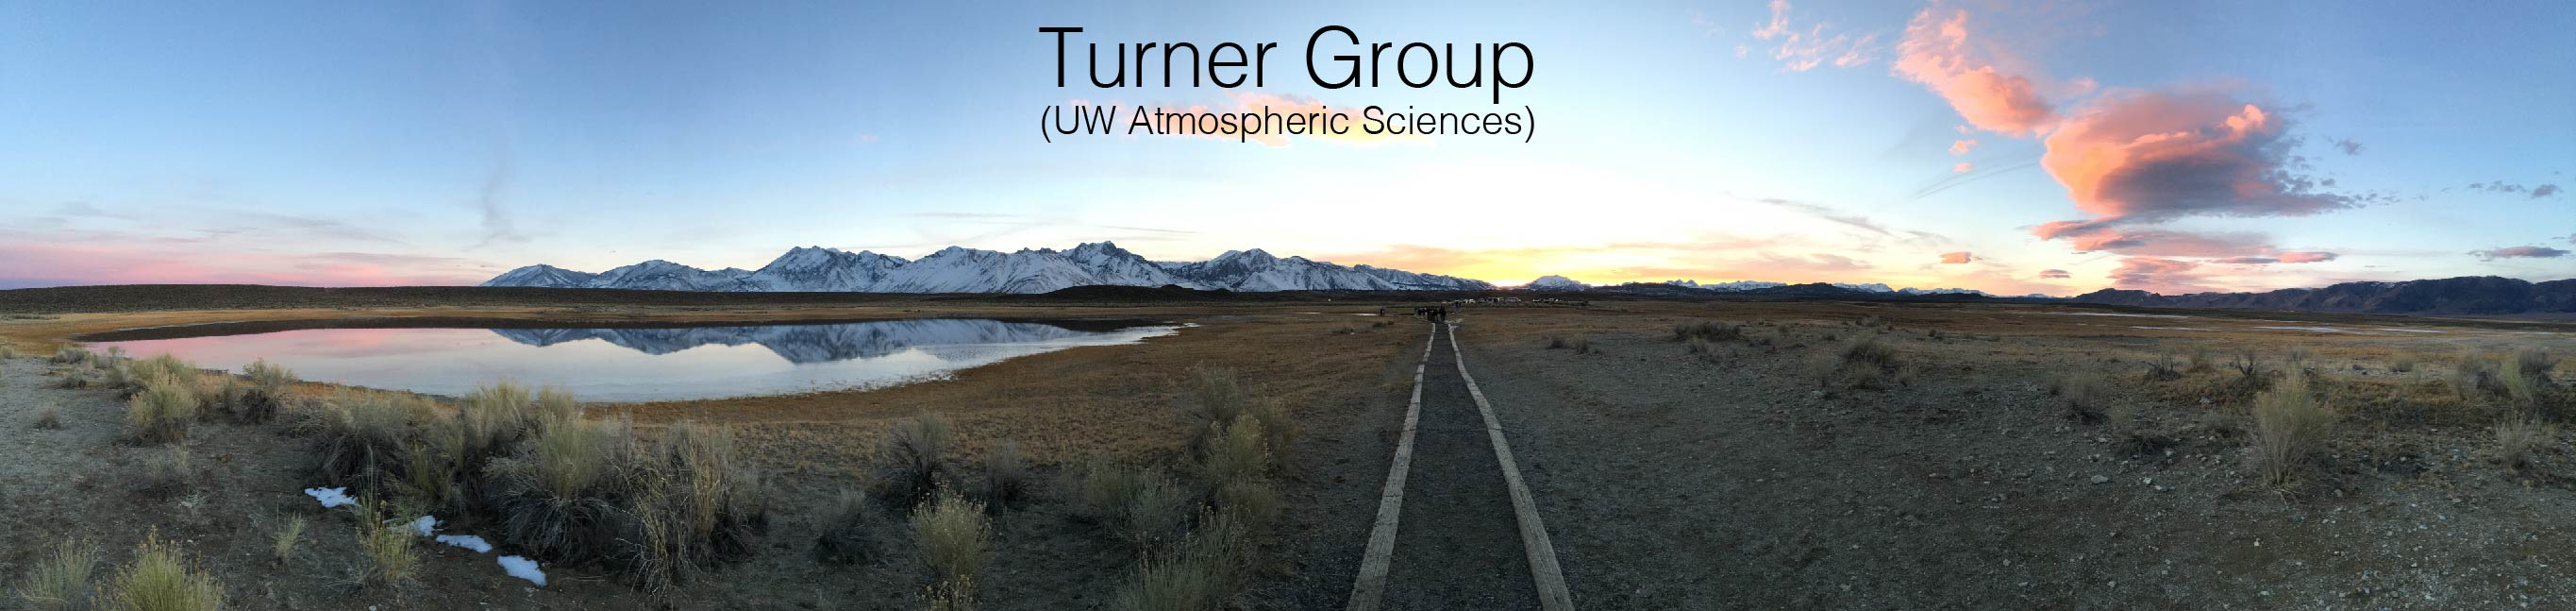
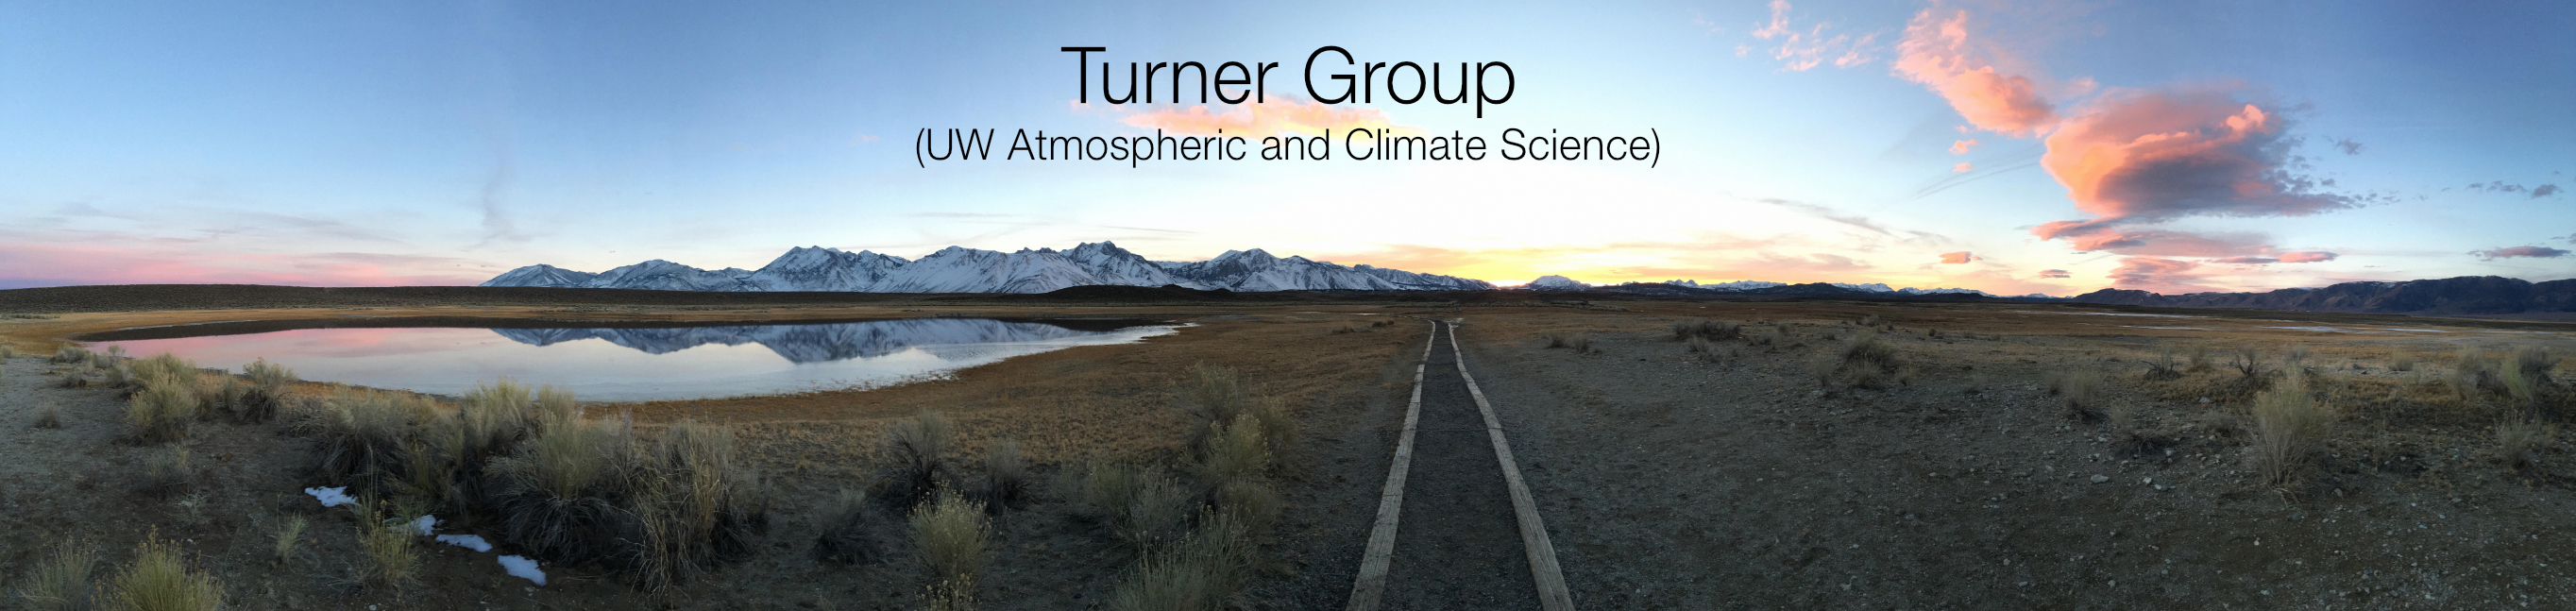
Updating website, A. Turner

diff --git a/publications.html b/publications.html
@@ -78,6 +78,13 @@
 
           <!-- He et al.,  -->
           <li class="bib-item">
+            Hamilton, S.D., D. Wu, M.S. Johnson, <b>A.J. Turner</b>, M.L. Fischer, <u>N. Dadheech</u>, and S Jeong (submitted),
+            Estimating carbon dioxide emissions in two California cities using Bayesian inversion and satellite measurements,
+            <i>submitted</i>.
+          </li> 
+
+          <!-- He et al.,  -->
+          <li class="bib-item">
             <u>He, T.</u>*, <u>N. Dadheech</u>*, T.M. Thompson, and <b>A.J. Turner</b> (under review),
             FootNet v1.0: Development of a machine learning emulator of atmospheric transport,
             <i>under review</i>.
@@ -90,25 +97,28 @@
             <i>under review</i>.
           </li> 
 
-          <!-- Manchanda et al., -->
-          <li class="bib-item">
-            Manchanda, C., R.A. Harley, J.D. Marshall, <b>A.J. Turner</b>, and J.S. Apte (in press),
-            Integrating Mobile and Fixed-Site Black Carbon Measurements to Bridge Spatiotemporal Gaps in Urban Air Quality,
-            <i>in press</i>.
-          </li> 
-
-          <!-- Lee et al., -->
-          <li class="bib-item">
-            Lee, B.H., J.M. Munger, S.C. Wofsy, L.V. Rizzo, <u>J.Y.S. Yoon</u>, <b>A.J. Turner</b>, J.A. Thornton, and A.L.S. Swann (in press),
-            Sensitive response of atmospheric oxidative capacity to the uncertainty in the emissions of nitric oxide (NO) from soils in Amazonia,
-            <i>in press</i>.
-          </li> 
-
 </ul>
 
 <!-- 2024 -->
 <a name="2024"></a><h4>2024</h4>
 <ul>
+          <!-- Manchanda et al., -->
+          <li class="bib-item">
+            Manchanda, C., R.A. Harley, J.D. Marshall, <b>A.J. Turner</b>, and J.S. Apte (2024),
+            <i>Env. Sci. Technol.</i>, <i>XX</i>, XX-XX, doi:10.1021/acs.est.3c10829.
+            | <a target=”_blank” href="ajt_site/papers/Manchanda_EST_2024.pdf"><b>PDF</b></a>
+            &nbsp;<span data-badge-popover="right" data-badge-type="2" data-doi="10.1021/acs.est.3c10829" data-condensed="true" data-hide-no-mentions="true" data-link-target="_blank" class="altmetric-embed"/>
+          </li> 
+
+          <!-- Lee et al., -->
+          <li class="bib-item">
+            Lee, B.H., J.M. Munger, S.C. Wofsy, L.V. Rizzo, <u>J.Y.S. Yoon</u>, <b>A.J. Turner</b>, J.A. Thornton, and A.L.S. Swann (2024),
+            Sensitive response of atmospheric oxidative capacity to the uncertainty in the emissions of nitric oxide (NO) from soils in Amazonia,
+            <i>Geophys. Res. Lett.</i>, <i>51</i>, e2023GL107214, doi:10.1029/2023GL107214.
+            | <a target=”_blank” href="ajt_site/papers/Lee_GRL_2024.pdf"><b>PDF</b></a>
+            &nbsp;<span data-badge-popover="right" data-badge-type="2" data-doi="10.1029/2023GL107214" data-condensed="true" data-hide-no-mentions="true" data-link-target="_blank" class="altmetric-embed"/>
+          </li> 
+
           <!-- Asimow et al., -->
           <li class="bib-item">
             Asimow, N.G., <b>A.J. Turner</b>, and R.C. Cohen (2024),

diff --git a/people.html b/people.html
@@ -58,15 +58,15 @@
       <div class="row">
         <div class="col-md-12">
           <h2>The Turner Group</h2>
-          <p>I am currently recruiting graduate students and postdocs.  Interested graduate students should refer to my <a href="faq.html"><b>Frequently Asked Questions</b></a> and apply to UW through the <a href="https://atmos.uw.edu/students/graduate-program/prospective-students/" target="_blank">Department of Atmospheric Sciences</a>.  Prospective postdocs should also consider applying for fellowships such as the <a href="https://cicoes.uw.edu/education/postdoc-program/" target="_blank">CICOES postdoc program</a> at UW, the <a href="https://cpaess.ucar.edu/cgc" target="_blank">NOAA Climate & Global Change postdoc</a>, various <a href="https://www.nsf.gov/funding/education.jsp?fund_type=3" target="_blank">NSF postdocs</a>, and the <a href="https://schmidtsciencefellows.org/overview/" target="_blank">Schmidt Science Fellows</a>.  Feel free to contact me for more information.</p>
+          <p>I am currently recruiting graduate students and postdocs.  Interested graduate students should refer to my <a href="faq.html"><b>Frequently Asked Questions</b></a> and apply to UW through the <a href="https://atmos.uw.edu/students/graduate-program/prospective-students/" target="_blank">Department of Atmospheric and Climate Science</a>.  Prospective postdocs should also consider applying for fellowships such as the <a href="https://cicoes.uw.edu/education/postdoc-program/" target="_blank">CICOES postdoc program</a> at UW, the <a href="https://cpaess.ucar.edu/cgc" target="_blank">NOAA Climate & Global Change postdoc</a>, various <a href="https://www.nsf.gov/funding/education.jsp?fund_type=3" target="_blank">NSF postdocs</a>, and the <a href="https://schmidtsciencefellows.org/overview/" target="_blank">Schmidt Science Fellows</a>.  Feel free to contact me for more information.</p>
 <HR>
         </div>
 
         <!-- Alex Turner -->
         <div class="col-md-2"><img src="ajt_site/images/AlexTurner.jpg" style="max-width:100%;width:150px" class="img-circle center-block"/></div>
         <div class="col-md-10">
-          <h3>Alex Turner<BR><small>Assistant Professor, Department of Atmospheric Sciences</small></h3>
-          <p>Alex is an Assistant Professor of Atmospheric Sciences at the University of Washington.  Previously, he was a Miller Postdoctoral Fellow at the University of California at Berkeley.  He completed his PhD in 2017 in Atmospheric Chemistry at Harvard University and his BS in 2012 in Mechanical Engineering at the University of Colorado.  His research combines satellite remote sensing, numerical modeling, and Bayesian inference to improve our understanding of atmospheric chemistry and the carbon cycle.<BR><BR>
+          <h3>Alex Turner<BR><small>Assistant Professor, Department of Atmospheric and Climate Science</small></h3>
+          <p>Alex is an Assistant Professor of Atmospheric and Climate Science at the University of Washington.  Previously, he was a Miller Postdoctoral Fellow at the University of California at Berkeley.  He completed his PhD in 2017 in Atmospheric Chemistry at Harvard University and his BS in 2012 in Mechanical Engineering at the University of Colorado.  His research combines satellite remote sensing, numerical modeling, and Bayesian inference to improve our understanding of atmospheric chemistry and the carbon cycle.<BR><BR>
 
           Alex was born in Cambridge, MA and grew up in Boulder, CO.  Growing up in Boulder helped foster his love of the environment and the outdoors.  During the summer he spends his free time trail running, rock climbing, and backpacking.  In the winter, he enjoys skiing and telemarking.<BR><BR>
 

diff --git a/index.html b/index.html
@@ -69,7 +69,7 @@
             <big><b>Alex Turner</b></big><BR>
             <!--<big><b><font color="4b2e83">Alex Turner</font></b></big><BR>-->
             Assistant Professor<BR>
-            Department of Atmospheric Sciences<BR>
+            Atmospheric and Climate Science<BR>
             University of Washington<BR>
             <a href="mailto:[email redacted]">turneraj (at) uw (dot) edu</a><BR>
           </p>